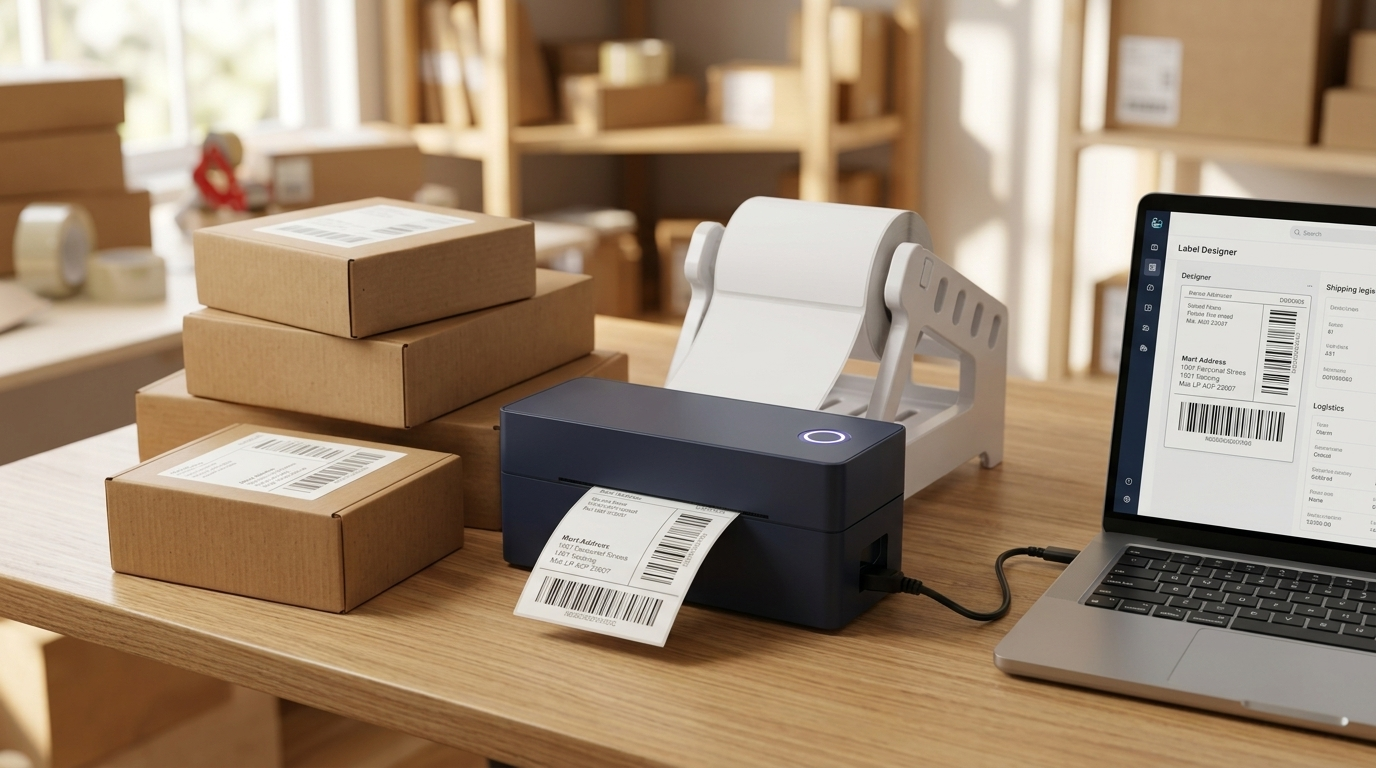
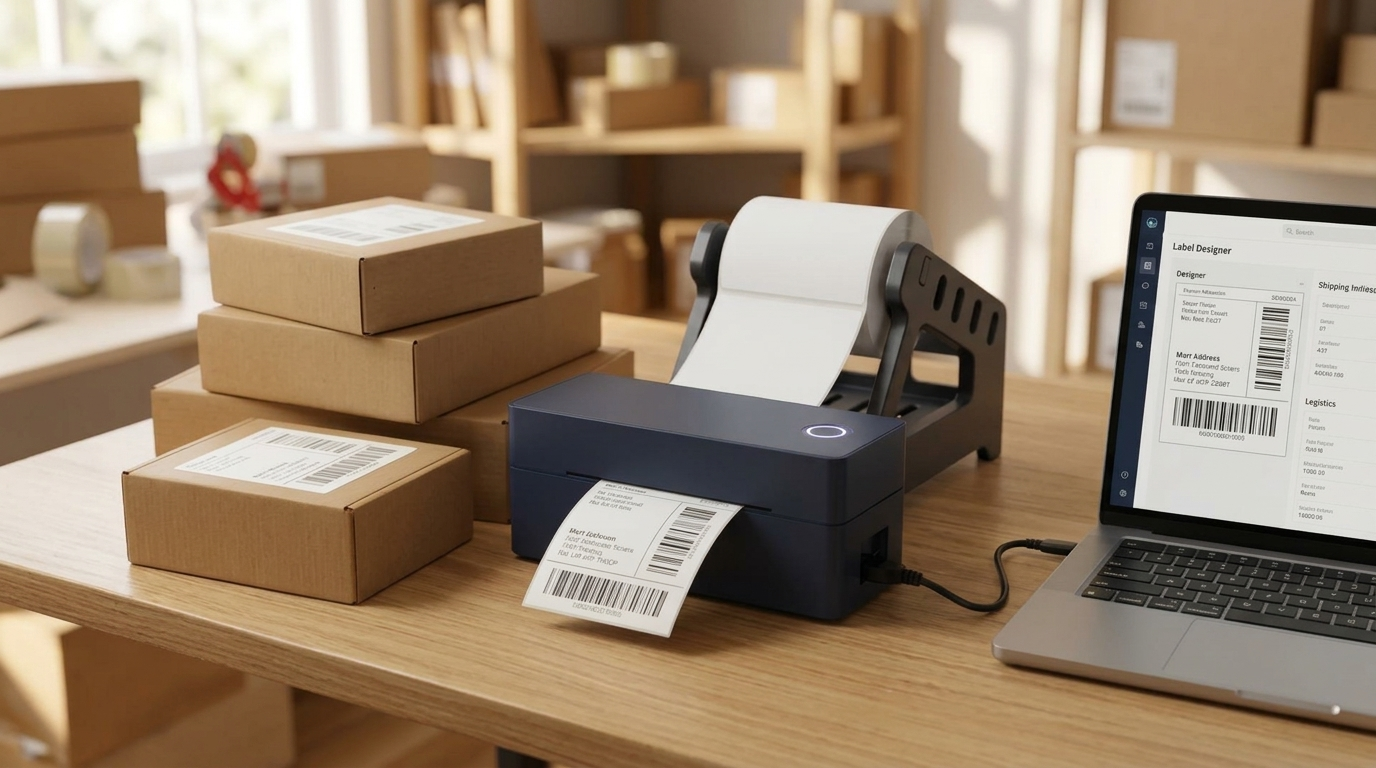
fix: replace white stand fulfillment image with dark stand image on homepage

diff --git a/src/lib/siteConfig.ts b/src/lib/siteConfig.ts
@@ -135,7 +135,7 @@ export const DEFAULT_SITE_CONFIG: SiteConfig = {
   videoHeadline: "See Bravon in Action",
   videoSubhead: "Watch high-speed 160 mm/s direct thermal printing, wireless BLE pairing, and instant label feeding in real-time.",
   videoUrl: "/bravon-printer-demo.mp4",
-  videoPosterUrl: "/bravon-shipping-action-v2.jpg",
+  videoPosterUrl: "/bravon-shipping-action-dark-stand.jpg",
 
   // Warranty & Returns
   warrantyDuration: "2-Year Comprehensive",
@@ -154,7 +154,7 @@ export const DEFAULT_SITE_CONFIG: SiteConfig = {
   productImageWhite: "/exact-printer-white.png",
   productImageDark: "/exact-printer-dark.png",
   productImageInBox: "/bravon-in-the-box-v3.jpg",
-  productImageAction: "/bravon-shipping-action-v2.jpg",
+  productImageAction: "/bravon-shipping-action-dark-stand.jpg",
   frontFeedImageWhite: "/bravon-hero-studio-white.jpg",
   frontFeedImageDark: "/bravon-hero-studio-dark.jpg",
   stickerLifestyleImage: "/bravon-stickers-lifestyle.jpg",

diff --git a/src/app/page.tsx b/src/app/page.tsx
@@ -395,7 +395,7 @@ export default function HomePage() {
             }}
           >
             <Image
-              src={config.productImageAction || "/bravon-shipping-action-v2.jpg"}
+              src={config.productImageAction || "/bravon-shipping-action-dark-stand.jpg"}
               alt={`${config.productName || "Bravon POS-9260-L"} Portable Thermal Label Printer in compact workspace`}
               fill
               style={{ objectFit: "cover" }}
